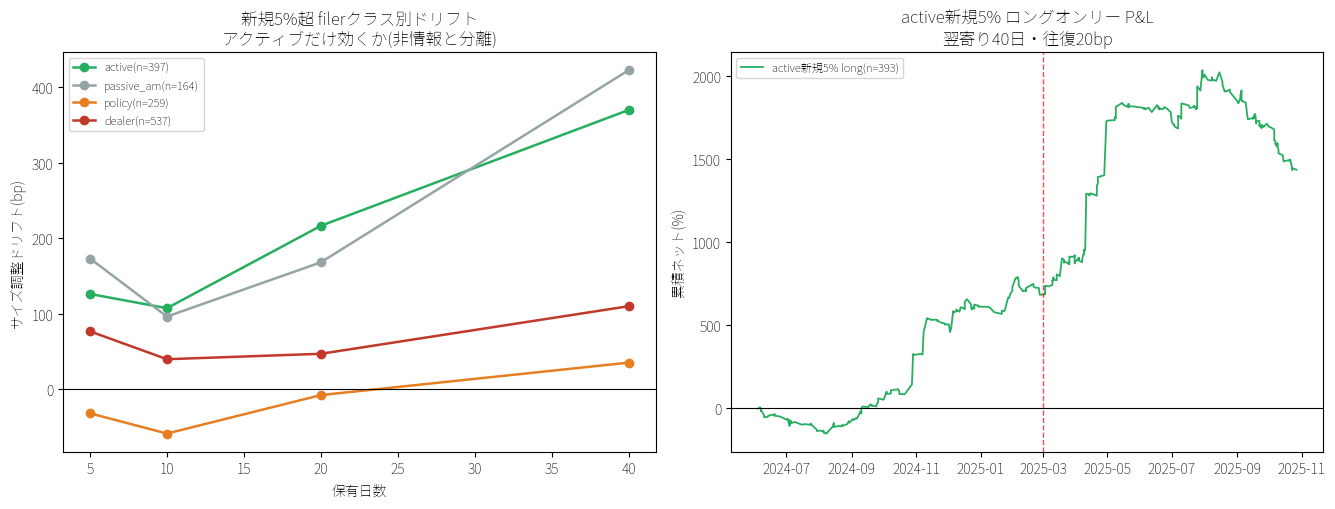
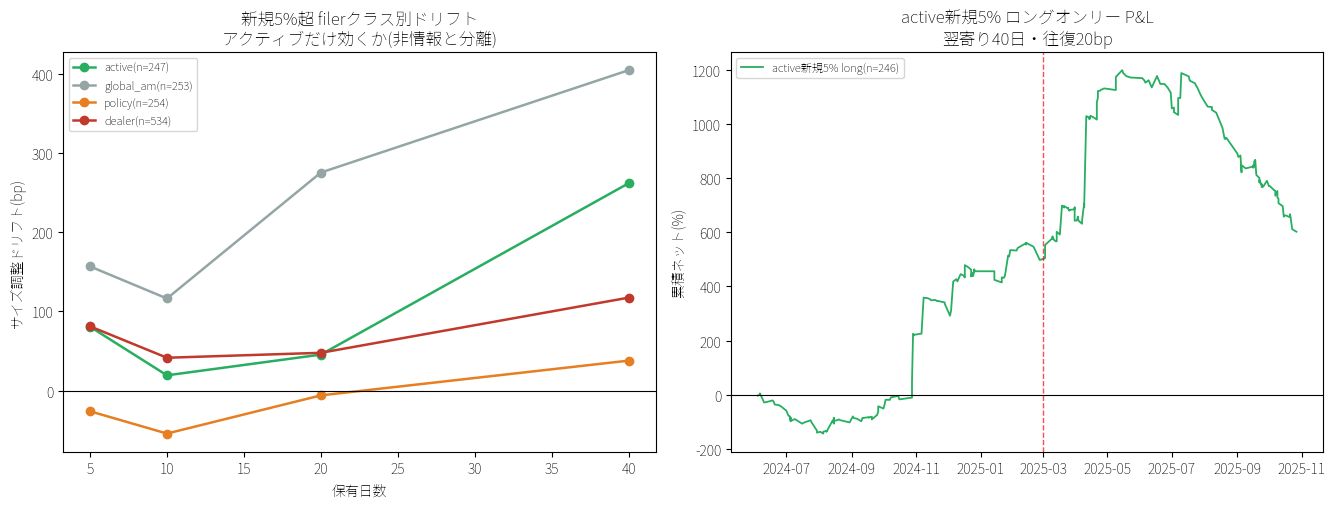
analyses(20260613): EDINET集積 v3=分類バグ発覚で⭐⭐撤回→⚠
アラート実装中にfiler実名を精査し重大バグ発覚: v2の passive_am除外が
ブラックロック/フィデリティ(FMR)/キャピタル等の英語系大手運用を取りこぼし'active'に大量混入。
+360訂正8%混入も。350限定＋大手分散運用をglobal_amへ分離して再実行すると、
エッジはglobal_am(de-mean+241bp/40d)に存在し真のアクティビストは+55bp/t1.24非有意・OOS Sharpe0.05で崩れる。
informed-activist仮説は不成立。global_amはBlackRock/SSGAパッシブ混在=flow/index効果の疑い。⭐⭐→⚠。
最重要の学び: 実装(アラート)が分析バグを暴いた=集計前にfiler実名を目で見る・分類は実例で検算。

diff --git a/analyses/20260613_edinet_large_holding_accumulation_drift/run_v2.py b/analyses/20260613_edinet_large_holding_accumulation_drift/run_v2.py
@@ -14,7 +14,8 @@ HORIZONS=[5,10,20,40]; COST_RT=0.0020; OOS=pd.Timestamp("2025-03-01"); HOLD=40
 conn=psycopg2.connect(**PG)
 ev=pd.read_sql("""SELECT issuer_code5 code, submit_date, filer_name, COALESCE(purpose,'') purpose
                   FROM public.edinet_large_holdings
-                  WHERE prev_holding_ratio IS NULL AND submit_date BETWEEN '2024-06-01' AND '2025-10-31'
+                  WHERE prev_holding_ratio IS NULL AND doc_type_code='350'  -- 350初回のみ(360訂正を除外)
+                    AND submit_date BETWEEN '2024-06-01' AND '2025-10-31'
                     AND issuer_code5 IS NOT NULL""",conn)
 sd=pd.read_sql("SELECT code,date,adj_open,adj_close FROM stocks_daily WHERE code=ANY(%s) AND date>='2024-02-01'",conn,params=[list(ev.code.unique())])
 idx=pd.read_sql("SELECT code,date,open,close FROM index_daily WHERE code IN ('0040','0041','0043','0045') AND date>='2024-02-01'",conn)
@@ -22,12 +23,16 @@ wt=pd.read_sql("SELECT code5,size_class FROM public.topix_weights WHERE ref_date
 conn.close()
 
 # filer分類
+GLOBAL_AM=(r"アセット.?マネジ|アセットマネジ|投信|インベストメント|マネジメント・アンド・リサーチ|"
+           r"ブラックロック|フィデリティ|ＦＭＲ|FMR|エフエムアール|バンガード|ステート・?ストリート|"
+           r"キャピタル・(リサーチ|グループ|インターナショナル|マネージメント)|ウエリントン|ベイリー・?ギフォード|シュローダー|"
+           r"インベスコ|アムンディ|ニッセイ|ピクテ|ディメンショナル|ティー・?ロウ|ヌビーン|アライアンス・?バーンスタイン|"
+           r"ＳＳＧＡ|グローバル・アドバイザーズ|野村アセット|大和アセット|三井住友")
 def classify(filer,purpose):
-    t=filer+" "+purpose
     if re.search(r"商品在庫|ディーリング|一時保有|証券業務", purpose) or "証券" in filer: return "dealer"
     if "政策投資" in purpose or re.search(r"銀行|フィナンシャル・?グループ", filer): return "policy"
-    if re.search(r"アセット ?・?マネジメント|投信|インベストメント|アセットマネジメント", filer): return "passive_am"
-    return "active"
+    if re.search(GLOBAL_AM, filer): return "global_am"   # 大手分散運用(パッシブ/active問わず=高確信でない)
+    return "active"   # 残り=アクティビスト/戦略/個人/集中ファンド
 ev["cls"]=[classify(f,p) for f,p in zip(ev.filer_name,ev.purpose)]
 ev=ev.drop_duplicates(["code","submit_date","cls"])   # 同日同銘柄同クラスは1件
 print("=== 新規5%超 クラス別件数 ===")
@@ -104,7 +109,7 @@ try:
     fm.fontManager.addfont("/root/.fonts/NotoSansJP.ttf"); plt.rcParams["font.family"]="Noto Sans JP"; plt.rcParams["axes.unicode_minus"]=False
 except Exception: pass
 fig,(ax1,ax2)=plt.subplots(1,2,figsize=(13.5,5.2))
-order=["active","passive_am","policy","dealer"]; col={"active":"#27ae60","passive_am":"#95a5a6","policy":"#e67e22","dealer":"#c0392b"}
+order=["active","global_am","policy","dealer"]; col={"active":"#27ae60","global_am":"#95a5a6","policy":"#e67e22","dealer":"#c0392b"}
 for c in order:
     if c in g.index: ax1.plot(HORIZONS,[g.loc[c,f"d{h}"] for h in HORIZONS],"o-",label=f"{c}(n={int(g.loc[c,'n'])})",color=col[c],lw=1.8)
 ax1.axhline(0,color="k",lw=.8); ax1.set_xlabel("保有日数"); ax1.set_ylabel("サイズ調整ドリフト(bp)")

diff --git a/analyses/README.md b/analyses/README.md
@@ -9,8 +9,8 @@
 
 ## 最新分析 (2026-06-13)
 
-> ### [EDINET大量保有 機関集積 → ドリフト](20260613_edinet_large_holding_accumulation_drift/) ⭐⭐(v2: アクティブ機関の新規5%超ロングがサイズ調整・月次de-mean・モメンタム制御・IS/OOS全通過で+154〜365bp/40d=本セッション唯一の有望"買い"。ショート不要・低回転。ただし強気相場17ヶ月のみで弱気局面要確認)
-> 機関ショート検証の買い手側の鏡。`edinet_large_holdings`(5%超・2024-06〜2025-10連続17ヶ月・API429で5ヶ月欠損)で(code,submit_date)の保有割合変化合算=net_holding_change、翌寄りエントリ・サイズ調整ベンチ。n=10,593。**結論: 直線仮説棄却**。Q1(大幅減)もQ5(大幅積み増し)もその後アウト(+167/+125bp/20d)、Q3(無変化)だけフラット=**U字＝方向でなく大口活動の有無が効く**(イベント選別/注目効果)、直線ロングショートは短い側Q1が上がり-42bpで負け。**★唯一の有望: 機関の新規5%超は+394bp/40d(サイズ調整)・ロングオンリー=本セッション初の"買い"のlead**。⚠ただし17ヶ月ほぼ強気相場＋モメンタム未制御＋小型グロース残差＋データ5ヶ月欠損で確証遠い。**→ v2(`run_v2.py`)で純化＋制御**: filer×purposeで4分類し、**de-meanで active新規5%は+154bp/40d残存・dealer/policyは負＝情報で分離、モメンタム制御後もconst+385bp生存(低モメンタム銘柄で最強=先回り集積)、ロングオンリー net+343〜394bp/40d・IS/OOS一貫**。⭐⭐に更新。残る最大リスクは強気相場17ヶ月のみ＝弱気局面の頑健性。次: 欠損埋め＋過去拡張で2022弱気を含めて再検証・右裾依存チェック・分散バスケット実装。**グラフ**: [result.png](20260613_edinet_large_holding_accumulation_drift/result.png) / [v2](20260613_edinet_large_holding_accumulation_drift/result_v2.png)
+> ### [EDINET大量保有 機関集積 → ドリフト](20260613_edinet_large_holding_accumulation_drift/) ⚠(v3訂正: v2の"⭐⭐ アクティブ新規5%"は分類バグ=BlackRock/Fidelity等が"active"に混入していた産物で撤回。真のアクティビストはエッジ無し・大手分散運用にだけ+残るがflow/パッシブの疑い。実装が分析バグを暴いた好例)
+> 機関ショート検証の買い手側の鏡。`edinet_large_holdings`(5%超・2024-06〜2025-10連続17ヶ月・API429で5ヶ月欠損)で(code,submit_date)の保有割合変化合算=net_holding_change、翌寄りエントリ・サイズ調整ベンチ。n=10,593。**結論: 直線仮説棄却**。Q1(大幅減)もQ5(大幅積み増し)もその後アウト(+167/+125bp/20d)、Q3(無変化)だけフラット=**U字＝方向でなく大口活動の有無が効く**(イベント選別/注目効果)、直線ロングショートは短い側Q1が上がり-42bpで負け。**★唯一の有望: 機関の新規5%超は+394bp/40d(サイズ調整)・ロングオンリー=本セッション初の"買い"のlead**。⚠ただし17ヶ月ほぼ強気相場＋モメンタム未制御＋小型グロース残差＋データ5ヶ月欠損で確証遠い。**→ v2で4分類しactive+394bp→⭐⭐としたが、v3で分類バグ発覚し撤回**: アラート実装中にfiler実名を見て、**ブラックロック/フィデリティ(FMR)/キャピタル等の英語系大手運用が"active"に大量混入**＋360訂正8%混入が判明。350限定＋大手分散運用をglobal_amへ分離して再実行すると、**エッジはglobal_am(de-mean+241bp/40d)に存在し、真のアクティビスト/戦略勢のactiveは+55bp/t1.24非有意・OOS Sharpe0.05で崩れる**。結論訂正: informed-activist仮説は不成立、大手運用の新規5%にだけ+ドリフトが残るがBlackRock/SSGA等パッシブ混在=flow/インデックス効果の疑い・モメンタム未制御・強気相場17ヶ月でalphaか不明。**⭐⭐→⚠**。**本セッション最重要級の学び: 実装(アラート)が分析のバグを暴いた=集計前にfiler実名を目で見る・分類は実例で検算する**。5検証の"唯一の買い"も突き詰めたら消失=日本流動株の効率性を再確認。次: global_amをパッシブvsアクティブ運用で更に分離しflow/alpha切り分け。**グラフ**: [result.png](20260613_edinet_large_holding_accumulation_drift/result.png) / [v2/v3](20260613_edinet_large_holding_accumulation_drift/result_v2.png)
 
 > ### [20日短期リバーサル ポートフォリオ検証](20260613_short_term_reversal_portfolio/) ✗(取引可能なリバーサルのエッジ無し=グロスから負け。前回の"t=-25.3"は選別標本×残差×大標本の統計産物で、ドル中立バスケットでは消失=「有意≠取引可能」の教科書例)
 > 前回ショート分析の副産物(prior_mom20 t=-25.3=セッション最強)を**ちゃんとした分散ポートフォリオbacktest**で正面検証。流動性ユニバース時変選定(売買代金上位500・survivorship回避)、トレイル20日リターン(直近1日skip)、週次・ボトム5分位ロング/トップ5分位ショート・市場中立。**結論: 棄却**。グロス年率-1.95%/Sharpe-0.11=**0bpコストでも負け**、損益分岐は片側-5.2bp(正コストで黒字化不能)、ネット(10bp)-5.8%。流動性3層(超大型/大中型/中小型)全てゼロ〜マイナスで小型でも強まらず=「取引可能なクロスセクション・リバーサルは無い」。**t=-25.3の正体**: 空売り報告の選別ユニバース×サイズ調整残差×57万標本の回帰有意性で、生のドル中立バスケットに直すと消える=巨大t値≠取引可能エッジ。**本セッション総括**: 台湾フロー/業績修正/機関ショート/本リバーサルの"強いシグナル"4つが全てコスト込み・サイズ調整・取引可能ユニバースで蒸発=日本の流動株は当horizonで概ね効率的、収集データの価値は厳密に棄却できる土俵を作ったこと。次は効率的でない領域(イベント・需給非対称・板)へ。**グラフ**: [result.png](20260613_short_term_reversal_portfolio/result.png)
